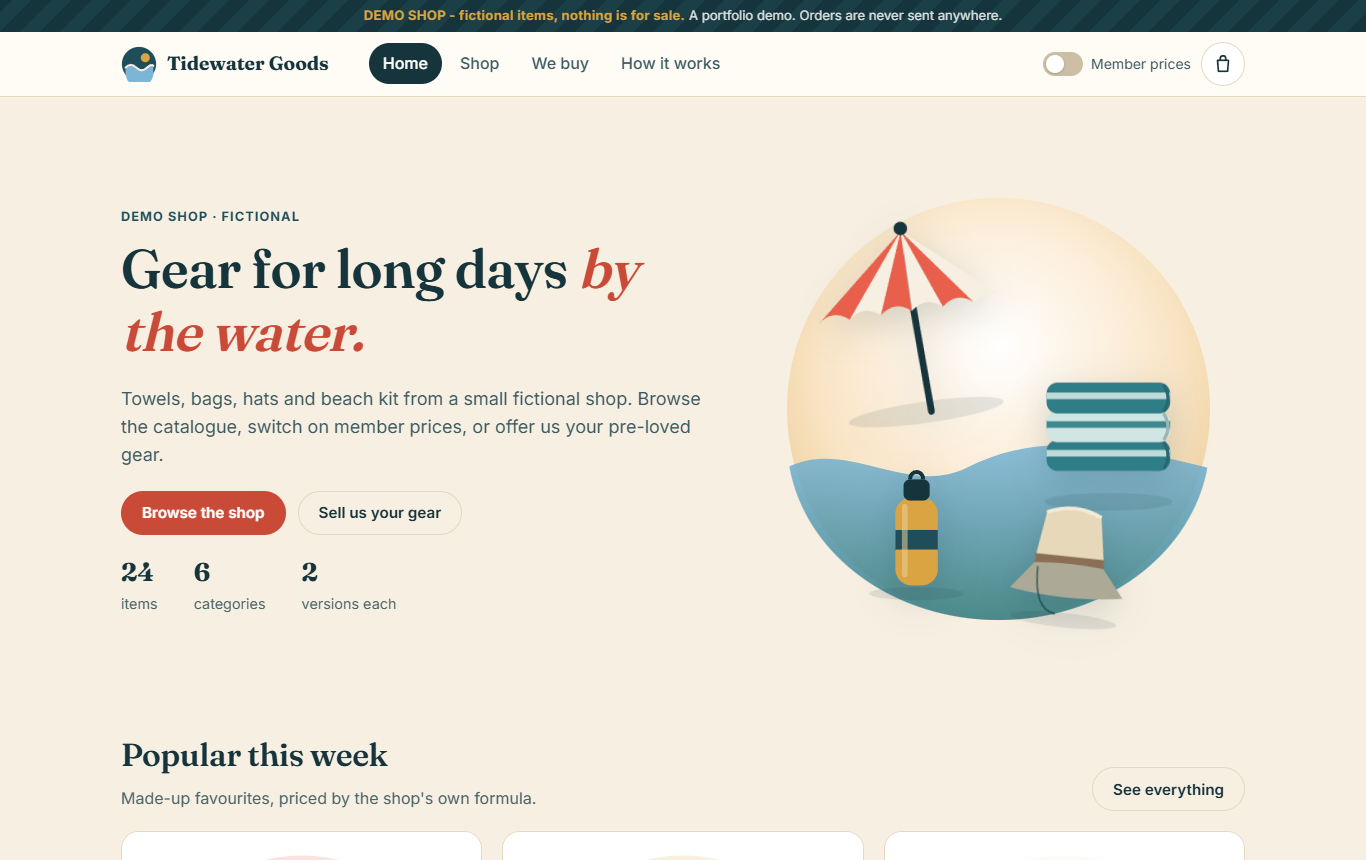
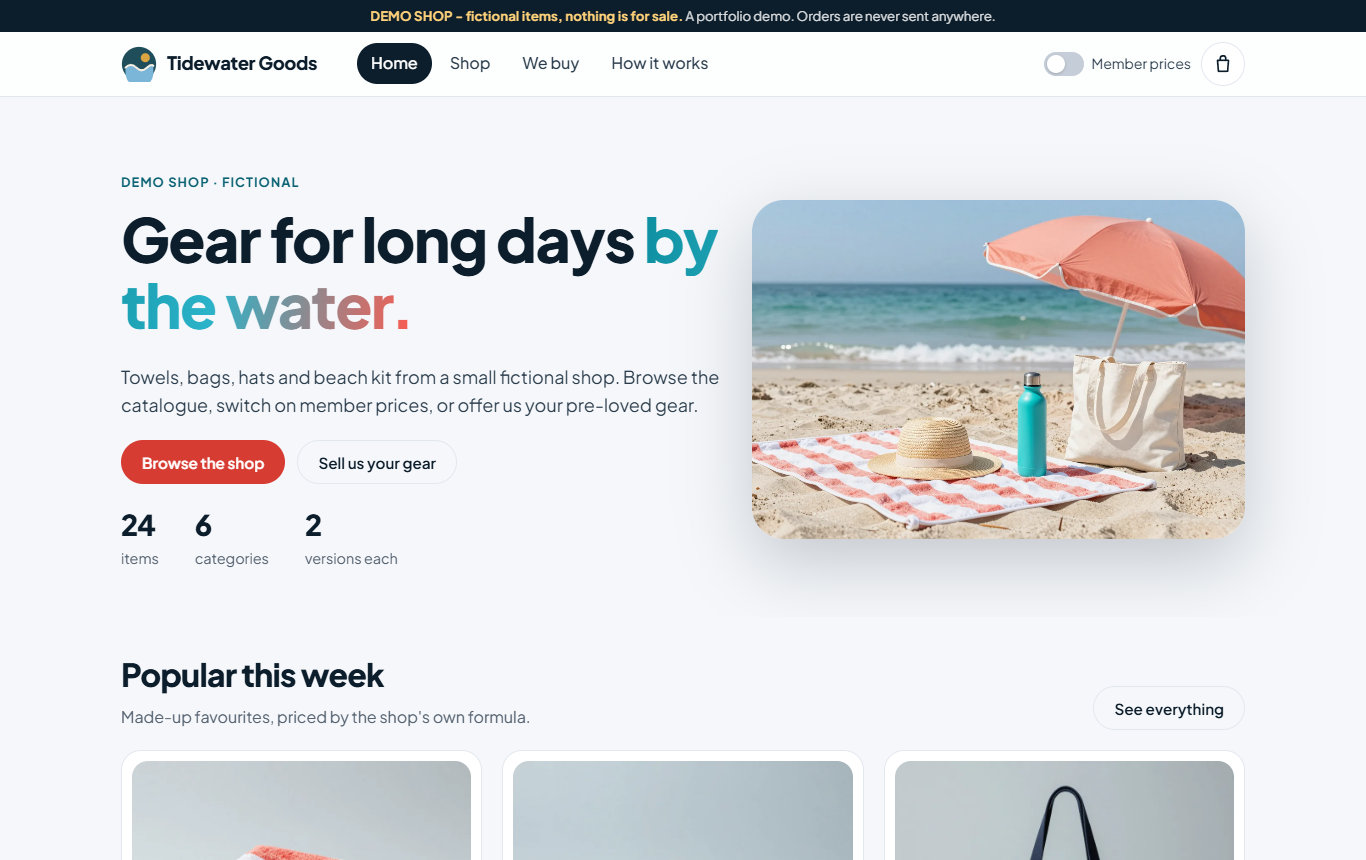
Modern restyle and AI product photos; review fixes round 2

diff --git a/assets/css/style.css b/assets/css/style.css
@@ -1,27 +1,27 @@
 /* Tidewater Goods demo shop. Coastal palette, light theme, mobile first. */
 :root {
-  --ink: #16343b;
-  --ink-2: #3c5a60;
-  --muted: #4a6468;
-  --sand: #f7efe2;
-  --sand-2: #efe3cd;
-  --paper: #fffdf8;
-  --teal: #2f7d86;
-  --teal-d: #1f4e5a;
-  --coral: #e8604c;
-  --coral-d: #c94a37;
-  --gold: #d9a441;
-  --sky: #7bb6d9;
-  --line: #e4d8c2;
-  --ok: #256b42;
+  --ink: #0c1d2b;
+  --ink-2: #2b3d4c;
+  --muted: #556270;
+  --sand: #f5f7fa;
+  --sand-2: #eaeef3;
+  --paper: #ffffff;
+  --teal: #0e8fa0;
+  --teal-d: #0a6273;
+  --coral: #ff5a4e;
+  --coral-d: #d63c32;
+  --gold: #ffb020;
+  --sky: #7cc4f2;
+  --line: #e3e8ef;
+  --ok: #1c7a4a;
   --warn: #8a5100;
   --bad: #b3261e;
-  --radius: 18px;
-  --radius-s: 10px;
-  --shadow: 0 1px 2px rgba(22, 52, 59, .06), 0 8px 24px rgba(22, 52, 59, .08);
-  --shadow-l: 0 20px 60px rgba(22, 52, 59, .22);
-  --font: "Inter", system-ui, -apple-system, "Segoe UI", Roboto, Arial, sans-serif;
-  --display: "Fraunces", Georgia, "Times New Roman", serif;
+  --radius: 20px;
+  --radius-s: 12px;
+  --shadow: 0 1px 2px rgba(12, 29, 43, .04), 0 10px 30px rgba(12, 29, 43, .07);
+  --shadow-l: 0 24px 70px rgba(12, 29, 43, .22);
+  --font: "Plus Jakarta Sans", "Inter", system-ui, -apple-system, "Segoe UI", Roboto, Arial, sans-serif;
+  --display: "Plus Jakarta Sans", "Inter", system-ui, -apple-system, "Segoe UI", Roboto, Arial, sans-serif;
   color-scheme: light;
 }
 *, *::before, *::after { box-sizing: border-box; }
@@ -34,10 +34,10 @@ main { flex: 1; }
 img, svg { max-width: 100%; }
 a { color: var(--teal-d); text-underline-offset: 3px; }
 a:hover { color: var(--coral-d); }
-h1, h2, h3 { font-family: var(--display); line-height: 1.15; margin: 0 0 .4em; letter-spacing: -.01em; }
-h1 { font-size: clamp(2rem, 4.5vw, 3.4rem); font-weight: 600; }
-h2 { font-size: clamp(1.4rem, 2.6vw, 2rem); font-weight: 600; }
-h3 { font-size: 1.1rem; font-weight: 600; }
+h1, h2, h3 { font-family: var(--display); line-height: 1.1; margin: 0 0 .4em; letter-spacing: -.025em; }
+h1 { font-size: clamp(2.1rem, 5vw, 3.8rem); font-weight: 800; }
+h2 { font-size: clamp(1.4rem, 2.6vw, 2rem); font-weight: 800; }
+h3 { font-size: 1.05rem; font-weight: 700; letter-spacing: -.01em; }
 p { margin: 0 0 1em; }
 .wrap { width: 100%; max-width: 1180px; margin: 0 auto; padding: 0 16px; }
 @media (min-width: 720px) { .wrap { padding: 0 28px; } }
@@ -53,14 +53,14 @@ p { margin: 0 0 1em; }
 
 /* ribbon + header */
 .ribbon {
-  background: repeating-linear-gradient(-45deg, var(--ink), var(--ink) 14px, #1b3f47 14px, #1b3f47 28px);
+  background: var(--ink);
   color: #fff; text-align: center; font-size: .82rem; padding: 7px 16px; line-height: 1.35;
 }
-.ribbon strong { color: var(--gold); letter-spacing: .02em; }
+.ribbon strong { color: #ffd27a; letter-spacing: .01em; }
 .ribbon span { opacity: .85; }
-.site-header { position: sticky; top: 0; z-index: 40; background: rgba(255, 253, 248, .92); backdrop-filter: saturate(1.4) blur(10px); border-bottom: 1px solid var(--line); }
+.site-header { position: sticky; top: 0; z-index: 40; background: rgba(255, 255, 255, .82); backdrop-filter: saturate(1.6) blur(14px); border-bottom: 1px solid var(--line); }
 .header-row { display: flex; align-items: center; gap: 16px; min-height: 64px; flex-wrap: wrap; }
-.brand { display: inline-flex; align-items: center; gap: 10px; font-family: var(--display); font-weight: 700; font-size: 1.2rem; color: var(--ink); text-decoration: none; }
+.brand { display: inline-flex; align-items: center; gap: 10px; font-family: var(--display); font-weight: 800; font-size: 1.15rem; letter-spacing: -.02em; color: var(--ink); text-decoration: none; }
 .brand:hover { color: var(--ink); }
 .logo { width: 36px; height: 36px; flex: none; }
 .main-nav { order: 3; width: 100%; overflow-x: auto; scrollbar-width: none; }
@@ -76,7 +76,7 @@ p { margin: 0 0 1em; }
 }
 .member-toggle { display: inline-flex; align-items: center; gap: 8px; cursor: pointer; font-size: .875rem; color: var(--ink-2); user-select: none; }
 .member-toggle input { position: absolute; opacity: 0; width: 1px; height: 1px; }
-.switch { width: 40px; height: 24px; border-radius: 999px; background: #cdbfa6; position: relative; transition: background .2s; flex: none; }
+.switch { width: 40px; height: 24px; border-radius: 999px; background: #c5cdd8; position: relative; transition: background .2s; flex: none; }
 .switch::after { content: ""; position: absolute; top: 3px; left: 3px; width: 18px; height: 18px; border-radius: 50%; background: #fff; box-shadow: 0 1px 3px rgba(0, 0, 0, .25); transition: transform .2s; }
 .member-toggle input:checked + .switch { background: var(--teal); }
 .member-toggle input:checked + .switch::after { transform: translateX(16px); }
@@ -105,10 +105,10 @@ p { margin: 0 0 1em; }
 
 /* badges */
 .badge { display: inline-flex; align-items: center; gap: 4px; font-size: .75rem; font-weight: 600; padding: 3px 9px; border-radius: 999px; white-space: nowrap; }
-.badge-in { background: #e3f1e8; color: var(--ok); }
-.badge-low { background: #fdf0d9; color: var(--warn); }
-.badge-out { background: #f6e1df; color: var(--bad); }
-.badge-member { background: #dcefee; color: var(--teal-d); }
+.badge-in { background: #e2f5ea; color: var(--ok); }
+.badge-low { background: #fff2d6; color: var(--warn); }
+.badge-out { background: #fde4e1; color: var(--bad); }
+.badge-member { background: #dff4f7; color: var(--teal-d); }
 .price-member { color: var(--teal); font-weight: 700; }
 
 /* hero */
@@ -116,15 +116,15 @@ p { margin: 0 0 1em; }
 .hero-grid { display: grid; gap: 28px; align-items: center; }
 @media (min-width: 900px) { .hero { padding: 72px 0 48px; } .hero-grid { grid-template-columns: 1.1fr .9fr; } }
 .eyebrow { display: inline-flex; align-items: center; gap: 8px; font-size: .8rem; font-weight: 700; text-transform: uppercase; letter-spacing: .08em; color: var(--teal-d); margin-bottom: 12px; }
-.hero h1 em { font-style: italic; color: var(--coral-d); }
+.hero h1 em { font-style: normal; background: linear-gradient(100deg, var(--teal) 0%, #2bb3c9 45%, var(--coral) 100%); -webkit-background-clip: text; background-clip: text; color: transparent; }
 .hero-ctas { display: flex; gap: 12px; flex-wrap: wrap; margin: 22px 0 18px; }
 .hero-stats { display: flex; gap: 36px; flex-wrap: wrap; font-size: .9rem; color: var(--muted); }
-.hero-stats strong { display: block; font-family: var(--display); font-size: 1.6rem; color: var(--ink); }
+.hero-stats strong { display: block; font-family: var(--display); font-size: 1.8rem; font-weight: 800; letter-spacing: -.03em; color: var(--ink); }
 .hero-art { position: relative; aspect-ratio: 1 / 1; max-width: 480px; width: 100%; margin: 0 auto; }
-.hero-art::before { content: ""; position: absolute; inset: 6%; border-radius: 50%; background: radial-gradient(circle at 50% 35%, #fff 0, #fbe9cf 45%, #f3d7aa 100%); box-shadow: inset 0 -30px 60px rgba(217, 164, 65, .25); }
-.hero-art::after { content: ""; position: absolute; left: 6%; right: 6%; bottom: 6%; height: 38%; border-radius: 0 0 50% 50% / 0 0 100% 100%; background: linear-gradient(#7bb6d9, #2f7d86); opacity: .85; clip-path: path("M0 30 C 60 0, 120 60, 180 30 S 300 0, 420 30 L 420 400 L 0 400 Z"); }
-.ha { position: absolute; z-index: 1; filter: drop-shadow(0 10px 18px rgba(22, 52, 59, .18)); }
-.ha .tw-art circle:first-child { display: none; }
+.hero-art::before { content: ""; position: absolute; inset: 4%; border-radius: 40px; background: radial-gradient(120% 80% at 80% 0%, #ffffff 0, #dff4fb 40%, #bfe6f5 100%); box-shadow: var(--shadow); }
+.hero-art::after { content: ""; position: absolute; left: 4%; right: 4%; bottom: 4%; height: 40%; border-radius: 0 0 40px 40px; background: linear-gradient(180deg, #4cc3d9 0%, #0e8fa0 60%, #0a6273 100%); clip-path: path("M0 30 C 60 0, 120 60, 180 30 S 300 0, 440 30 L 440 400 L 0 400 Z"); }
+.ha { position: absolute; z-index: 1; filter: drop-shadow(0 14px 22px rgba(12, 29, 43, .20)); }
+.ha .tw-art .tw-bg { display: none; }
 .ha-1 { width: 56%; left: 4%; top: 2%; transform: rotate(-8deg); }
 .ha-2 { width: 46%; right: 4%; top: 30%; }
 .ha-3 { width: 34%; left: 16%; bottom: 6%; }
@@ -156,8 +156,8 @@ p { margin: 0 0 1em; }
 @media (min-width: 720px) { .grid { grid-template-columns: repeat(3, minmax(0, 1fr)); gap: 20px; } }
 @media (min-width: 1040px) { .grid-4 { grid-template-columns: repeat(4, minmax(0, 1fr)); } }
 .card { background: #fff; border: 1px solid var(--line); border-radius: var(--radius); overflow: hidden; display: flex; flex-direction: column; transition: transform .18s, box-shadow .18s, border-color .18s; }
-.card:hover { transform: translateY(-3px); box-shadow: var(--shadow); border-color: #d6c7aa; }
-.card-art { display: block; background: linear-gradient(180deg, #fff, var(--paper)); padding: 10px 10px 0; }
+.card:hover { transform: translateY(-4px); box-shadow: var(--shadow); border-color: #d3dbe5; }
+.card-art { display: block; padding: 10px 10px 0; }
 .card-art .tw-art { display: block; width: 100%; height: auto; aspect-ratio: 1 / 1; }
 .card.is-out .card-art { filter: grayscale(.7); opacity: .7; }
 .card-body { padding: 12px 14px 14px; display: flex; flex-direction: column; gap: 6px; flex: 1; }
@@ -197,14 +197,14 @@ p { margin: 0 0 1em; }
 .crumbs a { color: var(--muted); }
 .item-grid { display: grid; gap: 28px; }
 @media (min-width: 900px) { .item-grid { grid-template-columns: 1fr 1fr; gap: 48px; align-items: start; } .item-art { position: sticky; top: 90px; } }
-.item-art { background: #fff; border: 1px solid var(--line); border-radius: 28px; padding: 24px; }
+.item-art { background: #fff; border: 1px solid var(--line); border-radius: 28px; padding: 18px; box-shadow: var(--shadow); }
 .item-art .tw-art { width: 100%; height: auto; display: block; }
 .item-info h1 { font-size: clamp(1.8rem, 3.6vw, 2.6rem); }
 .variants { border: 0; padding: 0; margin: 20px 0; display: grid; gap: 10px; }
 .variants legend { font-weight: 600; margin-bottom: 8px; padding: 0; }
 .variant { display: grid; gap: 4px; padding: 14px 16px; border: 2px solid var(--line); border-radius: var(--radius-s); background: #fff; cursor: pointer; position: relative; }
 .variant input { position: absolute; opacity: 0; }
-.variant:has(input:checked) { border-color: var(--teal); background: #f2f9f8; }
+.variant:has(input:checked) { border-color: var(--teal); background: #effafc; }
 .variant:has(input:focus-visible) { outline: 3px solid var(--coral); outline-offset: 2px; }
 .variant.is-out { opacity: .55; cursor: not-allowed; }
 .v-top { display: flex; justify-content: space-between; gap: 12px; font-variant-numeric: tabular-nums; }
@@ -212,7 +212,7 @@ p { margin: 0 0 1em; }
 .variant .badge { justify-self: start; }
 .price-block { margin: 8px 0 18px; }
 .pb-row { display: flex; align-items: baseline; gap: 12px; flex-wrap: wrap; }
-.price-big { font-family: var(--display); font-size: 2.2rem; font-weight: 600; font-variant-numeric: tabular-nums; }
+.price-big { font-family: var(--display); font-size: 2.3rem; font-weight: 800; letter-spacing: -.03em; font-variant-numeric: tabular-nums; }
 .buy-row { display: flex; gap: 12px; flex-wrap: wrap; align-items: center; }
 .stepper { display: inline-flex; align-items: center; border: 1px solid var(--line); border-radius: 999px; background: #fff; overflow: hidden; }
 .stepper .step { width: 40px; height: 42px; border: 0; background: transparent; font-size: 1.2rem; color: var(--ink); cursor: pointer; }
@@ -242,7 +242,7 @@ p { margin: 0 0 1em; }
 .cond-opt input { position: absolute; opacity: 0; }
 .cond-opt span { display: grid; gap: 2px; height: 100%; padding: 10px 12px; border: 2px solid var(--line); border-radius: var(--radius-s); font-variant-numeric: tabular-nums; }
 .cond-opt em { font-style: normal; }
-.cond-opt input:checked + span { border-color: var(--teal); background: #f2f9f8; }
+.cond-opt input:checked + span { border-color: var(--teal); background: #effafc; }
 .cond-opt input:focus-visible + span { outline: 3px solid var(--coral); outline-offset: 2px; }
 .panel { background: #fff; border: 1px solid var(--line); border-radius: var(--radius); padding: 18px; box-shadow: var(--shadow); }
 .pick-list { list-style: none; padding: 0; margin: 0 0 12px; display: grid; gap: 8px; }
@@ -259,7 +259,7 @@ p { margin: 0 0 1em; }
 
 /* drawer + modal */
 .overlay { position: fixed; inset: 0; z-index: 80; }
-.scrim { position: absolute; inset: 0; background: rgba(13, 32, 37, .45); opacity: 0; transition: opacity .18s; }
+.scrim { position: absolute; inset: 0; background: rgba(12, 29, 43, .45); backdrop-filter: blur(2px); opacity: 0; transition: opacity .18s; }
 .overlay.open .scrim { opacity: 1; }
 .drawer { position: absolute; top: 0; right: 0; bottom: 0; width: min(420px, 100%); background: var(--paper); display: flex; flex-direction: column; box-shadow: var(--shadow-l); transform: translateX(100%); transition: transform .22s ease; }
 .overlay.open .drawer { transform: none; }
@@ -311,7 +311,7 @@ p { margin: 0 0 1em; }
 .dc-meta strong { color: #f2f3f5; }
 .dc-app { background: #5865f2; color: #fff; font-size: .62rem; font-weight: 700; padding: 1px 5px; border-radius: 4px; }
 .dc-time { color: #949ba4; font-size: .75rem; }
-.dc-embed { border-left: 4px solid var(--coral); background: #2b2d31; border-radius: 4px; padding: 10px 14px 12px; max-width: 560px; overflow-x: auto; }
+.dc-embed { border-left: 4px solid var(--teal); background: #2b2d31; border-radius: 4px; padding: 10px 14px 12px; max-width: 560px; overflow-x: auto; }
 .dc-embed-title { color: #f2f3f5; font-weight: 700; margin-bottom: 6px; }
 .dc-table { width: 100%; border-collapse: collapse; font-size: .88rem; font-variant-numeric: tabular-nums; }
 .dc-table th { text-align: left; color: #b5bac1; font-weight: 600; padding: 4px 8px 4px 0; border-bottom: 1px solid #3f4147; }
@@ -335,14 +335,14 @@ p { margin: 0 0 1em; }
 @keyframes toast-in { from { opacity: 0; transform: translateY(8px); } }
 
 /* footer */
-.site-footer { margin-top: 40px; background: var(--ink); color: #d3e2e0; padding: 40px 0 28px; }
+.site-footer { margin-top: 40px; background: var(--ink); color: #c9d6e2; padding: 40px 0 28px; }
 .site-footer a { color: #fff; }
 .site-footer .brand, .site-footer .brand:hover { color: #fff; }
 .foot-grid { display: grid; gap: 24px; }
 @media (min-width: 720px) { .foot-grid { grid-template-columns: 1.4fr 1fr 1.4fr; } }
 .foot-h { font-family: var(--font); font-size: .8rem; text-transform: uppercase; letter-spacing: .1em; color: var(--gold); }
 .site-footer ul { list-style: none; padding: 0; margin: 0; display: grid; gap: 6px; }
-.site-footer .muted { color: #9fb6b4; }
+.site-footer .muted { color: #9fb2c4; }
 
 .load-error { margin: 24px auto; max-width: 760px; padding: 16px 18px; border-radius: var(--radius-s); background: #f6e1df; color: var(--bad); }
 .noscript { margin: 24px auto; max-width: 760px; padding: 16px; background: #fdf0d9; border-radius: var(--radius-s); }
@@ -362,3 +362,20 @@ p { margin: 0 0 1em; }
   .toolbar .select { width: 100%; min-width: 0; }
 }
 .in-cart-note { margin: 10px 0 0; }
+
+/* product photos (fall back to the drawn art when an item has no photo) */
+.pic { position: relative; display: block; border-radius: 16px; overflow: hidden; background: linear-gradient(180deg, #eef3f8, #e6edf4); aspect-ratio: 1 / 1; }
+.pic img { display: block; width: 100%; height: 100%; object-fit: cover; transition: transform .35s ease; }
+.card:hover .pic img { transform: scale(1.04); }
+.pic-art { background: linear-gradient(180deg, #f2f6fa, #e8eef5); }
+.pic-art .tw-art { width: 100%; height: 100%; display: block; }
+.pic-badge { position: absolute; top: 10px; left: 10px; background: rgba(12, 29, 43, .82); color: #fff; font-size: .75rem; font-weight: 700; padding: 4px 10px; border-radius: 999px; letter-spacing: .02em; }
+.card-art { padding: 10px 10px 0; }
+.item-art { padding: 14px; }
+.item-art .pic { border-radius: 20px; }
+.cl-art .pic { width: 64px; height: 64px; border-radius: 12px; }
+.buy-art .pic { border-radius: 14px; }
+/* hero photo */
+.hero-photo { aspect-ratio: 16 / 11; max-width: 620px; }
+.hero-photo::before, .hero-photo::after { display: none; }
+.hero-photo img { width: 100%; height: 100%; object-fit: cover; border-radius: 32px; box-shadow: var(--shadow-l); display: block; }

diff --git a/assets/js/app.js b/assets/js/app.js
@@ -276,7 +276,7 @@
     foot.className = "site-footer";
     foot.innerHTML = '<div class="wrap foot-grid">' +
       '<div><a class="brand brand-foot" href="' + b + 'index.html">' + logo() + "<span>" + esc(s.name) + "</span></a>" +
-      "<p>" + esc(s.tagline) + "</p><p class=\"muted small\">A fictional shop. Every item, price and stock count here is made up.</p></div>" +
+      "<p>" + esc(s.tagline) + "</p><p class=\"muted small\">A fictional shop. Every item, price and stock count here is made up, and the product photos are AI-generated.</p></div>" +
       '<div><h2 class="foot-h">Shop</h2><ul>' + NAV.map(function (n) { return '<li><a href="' + b + n.href + '">' + esc(n.label) + "</a></li>"; }).join("") + "</ul></div>" +
       '<div><h2 class="foot-h">About this demo</h2><p class="small">A sample build: a catalogue with stock and variants, a price engine, member prices and a buy-back form, with requests that would open a private ticket in the shop\'s Discord.</p>' +
       '<p class="small">Demo build by <strong>HAVOC Devs</strong>. Static site: no cookies or analytics. Web fonts load from Google Fonts.</p></div>' +
@@ -377,7 +377,7 @@
     body.innerHTML = '<ul class="cart-lines">' + c.map(function (l) {
       var it = DATA.byId[l.id], p = price(it, l.variant, m), max = stockOf(it, l.variant);
       return '<li class="cart-line" data-id="' + esc(l.id) + '" data-variant="' + esc(l.variant) + '">' +
-        '<div class="cl-art">' + TWArt.svg(it.art, it.colors, { premium: l.variant === "premium" }) + "</div>" +
+        '<div class="cl-art">' + pic(it) + "</div>" +
         '<div class="cl-main"><a href="' + base() + "item.html?id=" + encodeURIComponent(it.id) + '" class="cl-name">' + esc(it.name) + "</a>" +
           '<div class="muted small">' + esc(variantLabel(l.variant)) + " · " + money(p.final) + " each</div>" +
           '<div class="stepper" role="group" aria-label="Quantity for ' + esc(it.name) + '">' +
@@ -543,13 +543,24 @@
       '<path d="M5 24c4-4 8-4 12 0s8 4 12 0 6-3 7-2" fill="none" stroke="#f7efe2" stroke-width="2.2" stroke-linecap="round"/></svg>';
   }
 
+  // ---------- product pictures: a photo when the item has one, the code-drawn illustration otherwise ----------
+  function pic(it, opts) {
+    opts = opts || {};
+    var badge = opts.premium ? '<span class="pic-badge">Premium</span>' : "";
+    if (it.img) {
+      return '<span class="pic">' + '<img src="' + base() + esc(it.img) + '" alt="' + esc(opts.alt || "") + '"' +
+        (opts.eager ? "" : ' loading="lazy"') + ' decoding="async" width="800" height="800">' + badge + "</span>";
+    }
+    return '<span class="pic pic-art">' + TWArt.svg(it.art, it.colors || ["#0e8fa0", "#ffffff"], { label: opts.alt }) + badge + "</span>";
+  }
+
   // ---------- product card ----------
   function card(it) {
     var m = isMember(), p = price(it, "standard", m), n = totalStock(it), cat = DATA.cat[it.category];
     var url = base() + "item.html?id=" + encodeURIComponent(it.id);
     var std = stockOf(it, "standard");
     return '<article class="card' + (n <= 0 ? " is-out" : "") + '">' +
-      '<a class="card-art" href="' + url + '" tabindex="-1" aria-hidden="true">' + TWArt.svg(it.art, it.colors) + "</a>" +
+      '<a class="card-art" href="' + url + '" tabindex="-1" aria-hidden="true">' + pic(it) + "</a>" +
       '<div class="card-body">' +
         '<div class="card-cat">' + esc(cat ? cat.label : "") + "</div>" +
         '<h3 class="card-title"><a href="' + url + '">' + esc(it.name) + "</a></h3>" +
@@ -579,7 +590,11 @@
     wireQuickAdd(grid);
     document.addEventListener("tw:pricing", draw);
     var hero = $("#hero-art");
-    if (hero) {
+    var heroImg = DATA.settings.shop.hero_img;
+    if (hero && heroImg) {
+      hero.classList.add("hero-photo");
+      hero.innerHTML = '<img src="' + base() + esc(heroImg) + '" alt="" width="1600" height="907" fetchpriority="high">';
+    } else if (hero) {
       hero.innerHTML =
         '<div class="ha ha-1">' + TWArt.svg("umbrella", ["#e8604c", "#f7efe2"]) + "</div>" +
         '<div class="ha ha-2">' + TWArt.svg("towel", ["#2f7d86", "#cfe6e3"]) + "</div>" +
@@ -684,7 +699,7 @@
         '<nav class="crumbs" aria-label="Breadcrumb"><a href="' + base() + 'shop.html">Shop</a><span aria-hidden="true">/</span>' +
           '<a href="' + base() + "shop.html?cat=" + encodeURIComponent(it.category) + '">' + esc(cat.label) + '</a><span aria-hidden="true">/</span><span aria-current="page">' + esc(it.name) + "</span></nav>" +
         '<div class="item-grid">' +
-          '<div class="item-art">' + TWArt.svg(it.art, it.colors, { premium: variant === "premium", label: it.name + " illustration" }) + "</div>" +
+          '<div class="item-art">' + pic(it, { premium: variant === "premium", alt: it.name, eager: true }) + "</div>" +
           '<div class="item-info">' +
             '<div class="card-cat">' + esc(cat.label) + "</div>" +
             "<h1>" + esc(it.name) + "</h1>" +
@@ -764,7 +779,7 @@
     }
     list.innerHTML = B.items.map(function (b) {
       return '<article class="buy-card' + (b.wanted ? "" : " is-paused") + '" data-id="' + esc(b.id) + '">' +
-        '<div class="buy-art">' + TWArt.svg(b.art, ["#2f7d86", "#f1e6cf"]) + "</div>" +
+        '<div class="buy-art">' + pic(b) + "</div>" +
         '<div class="buy-main"><h3>' + esc(b.name) + "</h3>" +
           (b.wanted ? '<p class="muted small">Up to ' + b.max_qty + " per request · best offer " + money(offer(b, "likenew")) + "</p>"
                     : '<p class="muted small">Not buying these right now.</p>') +

diff --git a/how.html b/how.html
@@ -10,7 +10,7 @@
 <link rel="icon" href="assets/favicon.svg" type="image/svg+xml">
 <link rel="preconnect" href="https://fonts.googleapis.com">
 <link rel="preconnect" href="https://fonts.gstatic.com" crossorigin>
-<link rel="stylesheet" href="https://fonts.googleapis.com/css2?family=Fraunces:opsz,wght@9..144,600;9..144,700&family=Inter:wght@400;500;600;700&display=swap">
+<link rel="stylesheet" href="https://fonts.googleapis.com/css2?family=Plus+Jakarta+Sans:wght@400;500;600;700;800&display=swap">
 <link rel="stylesheet" href="assets/css/style.css">
 <script src="assets/js/art.js" defer></script>
 <script src="assets/js/app.js" defer></script>
@@ -30,8 +30,9 @@
         <li><strong>Catalogue:</strong> 24 items in 6 categories, with search, category filters, sorting and an in-stock filter.</li>
         <li><strong>Versions with their own stock:</strong> each item comes in Standard and Premium, and each version has its own count.</li>
         <li><strong>Price engine:</strong> one formula prices everything (base cost × version × category markup, rounded up to .95). Each product page shows the working.</li>
-        <li><strong>Member prices:</strong> the header switch shows what a member would pay (10% off, rounded).</li>
-        <li><strong>Cart and order request:</strong> your cart is kept in this browser only. "Request this order" shows the Discord ticket the shop would receive.</li>
+        <li><strong>Member prices:</strong> the header switch shows what a member would pay (at least 10% off, rounded down to a .95 price).</li>
+        <li><strong>Cart and order request:</strong> your cart is kept in this browser only. "Preview order request" shows the Discord ticket the shop would receive.</li>
+        <li><strong>Product photos:</strong> made with AI for this demo. They show made-up, unbranded products.</li>
         <li><strong>We buy:</strong> a buy-back form with condition grades, an instant estimate and a per-request limit.</li>
       </ul>
     </section>

diff --git a/index.html b/index.html
@@ -10,7 +10,7 @@
 <link rel="icon" href="assets/favicon.svg" type="image/svg+xml">
 <link rel="preconnect" href="https://fonts.googleapis.com">
 <link rel="preconnect" href="https://fonts.gstatic.com" crossorigin>
-<link rel="stylesheet" href="https://fonts.googleapis.com/css2?family=Fraunces:opsz,wght@9..144,600;9..144,700&family=Inter:wght@400;500;600;700&display=swap">
+<link rel="stylesheet" href="https://fonts.googleapis.com/css2?family=Plus+Jakarta+Sans:wght@400;500;600;700;800&display=swap">
 <link rel="stylesheet" href="assets/css/style.css">
 <script src="assets/js/art.js" defer></script>
 <script src="assets/js/app.js" defer></script>

diff --git a/item.html b/item.html
@@ -10,7 +10,7 @@
 <link rel="icon" href="assets/favicon.svg" type="image/svg+xml">
 <link rel="preconnect" href="https://fonts.googleapis.com">
 <link rel="preconnect" href="https://fonts.gstatic.com" crossorigin>
-<link rel="stylesheet" href="https://fonts.googleapis.com/css2?family=Fraunces:opsz,wght@9..144,600;9..144,700&family=Inter:wght@400;500;600;700&display=swap">
+<link rel="stylesheet" href="https://fonts.googleapis.com/css2?family=Plus+Jakarta+Sans:wght@400;500;600;700;800&display=swap">
 <link rel="stylesheet" href="assets/css/style.css">
 <script src="assets/js/art.js" defer></script>
 <script src="assets/js/app.js" defer></script>

diff --git a/sell.html b/sell.html
@@ -10,7 +10,7 @@
 <link rel="icon" href="assets/favicon.svg" type="image/svg+xml">
 <link rel="preconnect" href="https://fonts.googleapis.com">
 <link rel="preconnect" href="https://fonts.gstatic.com" crossorigin>
-<link rel="stylesheet" href="https://fonts.googleapis.com/css2?family=Fraunces:opsz,wght@9..144,600;9..144,700&family=Inter:wght@400;500;600;700&display=swap">
+<link rel="stylesheet" href="https://fonts.googleapis.com/css2?family=Plus+Jakarta+Sans:wght@400;500;600;700;800&display=swap">
 <link rel="stylesheet" href="assets/css/style.css">
 <script src="assets/js/art.js" defer></script>
 <script src="assets/js/app.js" defer></script>

diff --git a/shop.html b/shop.html
@@ -10,7 +10,7 @@
 <link rel="icon" href="assets/favicon.svg" type="image/svg+xml">
 <link rel="preconnect" href="https://fonts.googleapis.com">
 <link rel="preconnect" href="https://fonts.gstatic.com" crossorigin>
-<link rel="stylesheet" href="https://fonts.googleapis.com/css2?family=Fraunces:opsz,wght@9..144,600;9..144,700&family=Inter:wght@400;500;600;700&display=swap">
+<link rel="stylesheet" href="https://fonts.googleapis.com/css2?family=Plus+Jakarta+Sans:wght@400;500;600;700;800&display=swap">
 <link rel="stylesheet" href="assets/css/style.css">
 <script src="assets/js/art.js" defer></script>
 <script src="assets/js/app.js" defer></script>

diff --git a/README.md b/README.md
@@ -20,11 +20,11 @@ It shows what a "catalogue + order-request site" looks like before it's made for
 | Catalogue | 24 made-up items in 6 categories, with search, category filters, sorting, a version filter and an in-stock filter |
 | Versions and stock | Each item has a Standard and a Premium version with its own stock count; sold-out versions can't be added |
 | Price engine | One formula prices everything: `cost × version factor × (1 + category markup)`, rounded up to a .95 price. Every product page shows the working |
-| Member prices | A header switch shows member prices (10% off, rounded). Demo only: there are no accounts |
+| Member prices | A header switch shows member prices (at least 10% off, rounded down to a .95 price). Demo only: there are no accounts |
 | Cart | Kept in the visitor's own browser (`localStorage`, along with the member switch and a ticket counter); quantities are capped at the stock left |
 | Order request | Name, optional Discord username and a note, then a preview of the private Discord ticket the shop would get |
 | We buy | A buy-back page with condition grades (Fair / Good / Like new), an instant estimate and a per-request limit |
-| Pictures | Flat illustrations drawn in code (`assets/js/art.js`). No image files, no stock photos, nothing copyrighted |
+| Pictures | AI-generated studio product photos made for this demo (`assets/img/products/`, WebP). They show made-up, unbranded products: no real brands, logos or people. If an item has no photo, a flat illustration drawn in code (`assets/js/art.js`) is shown instead |
 
 ## How it's built
 
